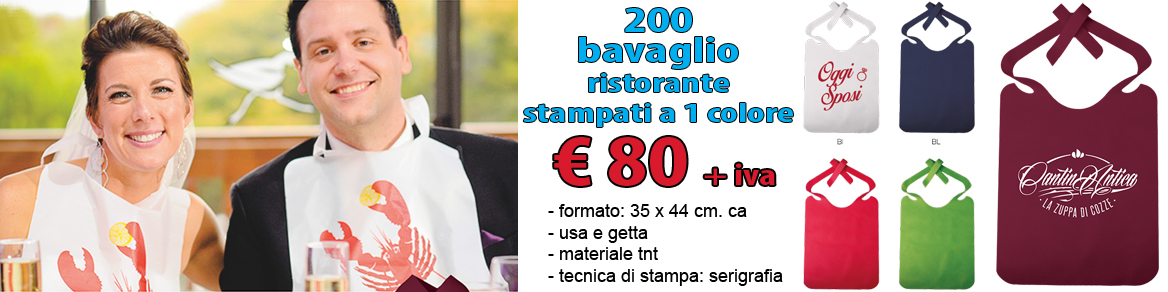
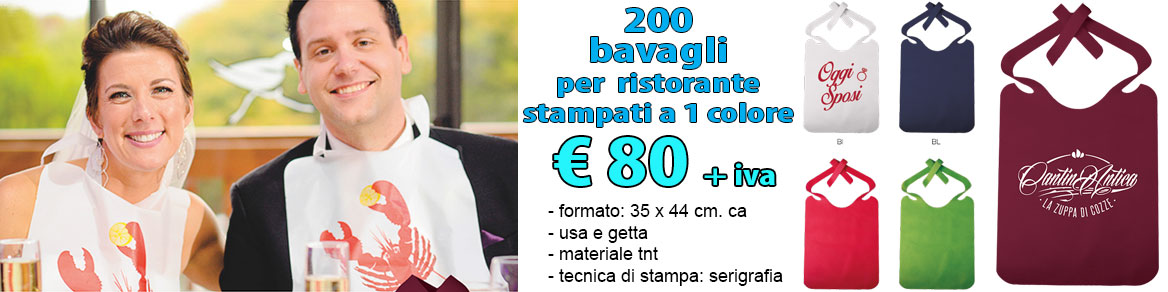
varie

diff --git a/app/controller/abbigliamentoController.js b/app/controller/abbigliamentoController.js
@@ -16,36 +16,61 @@
     }
 
     vm.categoria = [
-    {
-        'titolo': 'Giubbotto Sottozero', 'imgSrc': '../../jmg/jmgAbbigliamento/giubbotto-da-lavoro.jpg', 'imgAlt': 'Giubbotto sottozero personalizzato',
-        'caratteristiche': [
-            'Tessuto: 65% Cotone, 35% Poliestere',
-            'imbottitura: 200 g/m',
-            'colore: blu',
-            'taglie: M - L - XL - XXL - XXXL',
-            'piccole bande riflettenti 3M',
-            'tasca interna lato destro',
-            'chiusura centrale con cerniera ricoperta da pattina con bottoni',
-            '2 tasche con cerniera',
-            '2 tasche con chiusura in velcro',
-            'tasca porta cellulare + taschino porta penne',      
-            'DPI 1ª categoria',
-            'conforme UNI EN 340'],
-        'prezzo': 'da € 25 cad. +iva'
-    },
-    {
-        'titolo': 'Gilet classe 2', 'imgSrc': '../../jmg/jmgAbbigliamento/gilet classe 2 personalizzato.jpg', 'imgAlt': 'Gilet giallo o arancione classe 2 personalizzato',
-        'caratteristiche': [
-            'Tessuto: 100% Poliestere',
-            'colore: arancio o giallo',
-            'taglia: unica',
-            'bande riflettenti 3M Scotchlite',
-            'bordo rinforzato',
-            'chiusura con velcro',
-            'DPI 2ª categoria',
-            'conforme omologato EN 471'],
-        'prezzo': 'da € 4,50 cad. +iva'
-    }
+        {
+            'titolo': 'Giubbotto Sottozero', 'imgSrc': '../../jmg/jmgAbbigliamento/giubbotto-da-lavoro.jpg', 'imgAlt': 'Giubbotto sottozero personalizzato',
+            'caratteristiche': [
+                'Tessuto: 65% Cotone, 35% Poliestere',
+                'imbottitura: 200 g/m',
+                'colore: blu',
+                'taglie: M - L - XL - XXL - XXXL',
+                'piccole bande riflettenti 3M',
+                'tasca interna lato destro',
+                'chiusura centrale con cerniera ricoperta da pattina con bottoni',
+                '2 tasche con cerniera',
+                '2 tasche con chiusura in velcro',
+                'tasca porta cellulare + taschino porta penne',
+                'DPI 1ª categoria',
+                'conforme UNI EN 340'],
+            'prezzo': 'da € 25 cad. +iva'
+        },
+        {
+            'titolo': 'Pile personalizzato', 'imgSrc': '../../jmg/jmgAbbigliamento/pile-personalizzato-con-ricamo.jpg', 'imgAlt': 'Pile personalizzato con ricamo',
+            'caratteristiche': [
+                'Tessuto: 100% Poliestere 280 g / m2',
+                'colore: blu, nero, grigio, verde, arancio, rosso, royal',
+                '2 tasche laterali con cerniera',
+                'elastico ai polsi',
+                'coulisse regolabile in vita',
+                'chiusura con zip',
+                'DPI 1ª categoria',
+                'taglie: XS - S - M - L - XL - XXL - 3XL',
+                '30 pile con ricamo altezza cuore inclusa'],
+            'prezzo': 'a € 15 cad. +iva'
+        },
+        {
+            'titolo': 'Gilet classe 2', 'imgSrc': '../../jmg/jmgAbbigliamento/gilet classe 2 personalizzato.jpg', 'imgAlt': 'Gilet giallo o arancione classe 2 personalizzato',
+            'caratteristiche': [
+                'Tessuto: 100% Poliestere',
+                'colore: arancio o giallo',
+                'taglia: unica',
+                'bande riflettenti 3M Scotchlite',
+                'bordo rinforzato',
+                'chiusura con velcro',
+                'DPI 2ª categoria',
+                'conforme omologato EN 471',
+            '50 gilet personalizzati davanti e dietro'],
+            'prezzo': 'da € 4,50 cad. +iva'
+        },
+        {
+            'titolo': 'Bavaglio usa e getta', 'imgSrc': '../../jmg/jmgAbbigliamento/bavaglio-personalizzato.jpg', 'imgAlt': 'Bavaglio personalizzato',
+            'caratteristiche': [
+                'Tessuto: 100% Tnt',
+                'colore: verde, rosso, blu, bianco, Bordeaux ',
+                'formato: 35 x 44 cm.',
+                'usa e getta',
+                '200 bavagli stampati a 1 colore'],
+            'prezzo': 'a € 80 +iva'
+        },
     ]
-        
+
 })

diff --git a/app/controller/penneController.js b/app/controller/penneController.js
@@ -26,10 +26,19 @@
             'inchiostro nero'],
         'prezzo': 'da € 0,30 cad. +iva'
     },
-               
+    {
+        'titolo': 'Penne per touch personalizzate', 'imgSrc': '../../jmg/jmgPenne/penne-con-puntale-touch.jpg', 'imgAlt': 'Penne a sfera con puntale touch personalizzate a 1 colore',
+        'caratteristiche': [
+            'gommino per touch screen',
+            'penna a sfera',
+            'meccanismo a rotazione',
+            'materiale: plastica metallizzata',
+            'Dimensioni:Ø cm 1 x h14 cm.',
+            'inchiostro nero'],
+        'prezzo': 'a € 0,70 cad. +iva'       
+    }
+
 
     ]
-
-
 
 })

diff --git a/app/controller/notesController.js b/app/controller/notesController.js
@@ -16,13 +16,14 @@
     }
 
     vm.categoria = [{
-        'titolo': 'Block notes', 'imgSrc': '../../jmg/jmgNotes/notes-personalizzati.jpg', 'imgAlt': 'Block notes personalizzati',
+        'titolo': 'Block notes personalizzati', 'imgSrc': '../../jmg/jmgNotes/notes-personalizzati.jpg', 'imgAlt': 'Block notes personalizzati',
         'caratteristiche': [
             'Carta uso mano 80 gr.',
             '50 fogli',
             'Incollati in testa',
-            'cartoncino sottoblocco',]
-    },
+            'cartoncino sottoblocco',
+            'personalizzati a colori']
+    }
 
 
 

diff --git a/app/controller/indexController.js b/app/controller/indexController.js
@@ -11,7 +11,7 @@
     vm.HomePage = [
         {
             'ahref': '../Categorie/Timbri-datari.html',
-            'imgSrc': '../../jmg/immaginiVetrina/Autoinchiostrato.jpg', 'imgAlt': 'buttare',
+            'imgSrc': '../../jmg/immaginiVetrina/Timbro-autoinchiostrato.jpg', 'imgAlt': 'Timbro autoinchiostrato',
             'prezzoVetrina': 'da € 13,00',
             'titolo': 'Timbro autoinchiostrato Trodat 4913',
             'descrizione': 'Timbro autoinchiostrato Trodat 4913, composto da 4/5 righe con tampone nero. A richiesta tampone blu, rosso, verde.'
